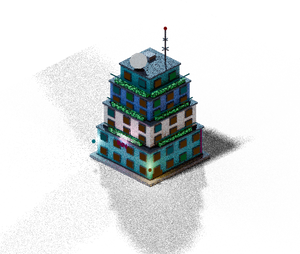
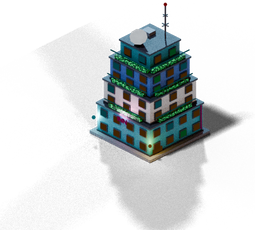
M1 gate: new building art, road autotiles, land variants
Claude-Session: https://claude.ai/code/session_01QSZFyZuWL4hZegdMtJgmEj

Changed region(s): [[0.2471, 0.0, 0.9608, 1.0], [0.2196, 0.4261, 0.2745, 0.4565], [0.1647, 0.2739, 0.1922, 0.3348]]

diff --git a/art/contact.py b/art/contact.py
@@ -57,7 +57,7 @@ def sheet():
     p = patch(); W = max(1500, p.width + 20)
     keys = list(man['tiles']); bk = list(man['buildings'])
     rows_h = 80 + 20 + 2 * 90 + 20
-    sh = Image.new('RGBA', (W, 40 + 6 * 96 + 3000 + p.height), BG); d = ImageDraw.Draw(sh)
+    sh = Image.new('RGBA', (W, 40 + 6 * 96 + 1800 + p.height), BG); d = ImageDraw.Draw(sh)
     d.text((10, 6), 'TILES (anchor = south corner)', fill=(200, 220, 255, 255))
     for i, k in enumerate(keys):
         x = 10 + (i % 10) * 142; y = 24 + (i // 10) * 96

diff --git a/PROGRESS.md b/PROGRESS.md
@@ -5,3 +5,4 @@
 | 2026-11-14 | M0 | Plan approved. Repo reset to fresh `main`; bake-off kept on `art-samples`. M0 started. |
 | 2026-11-14 | M0 | Gate passed: sim worker, mapgen, placement, HUD; art pipeline with glow layers + seawall autotiles; art integrated. Playable: https://claude.ai/artifact/7wF7KBpMAC7gjsgp3cAqoB |
 | 2026-11-14 | M1 | Started immediately after M0 gate: economy sim + UI, new building art, roads, land variants. |
+| 2026-11-14 | M1 | Gate passed: 11/11 tests, e2e ok. 3 chains, 2 tiers, power, roads, 11 building sprites. Playable updated. M2 started. |
